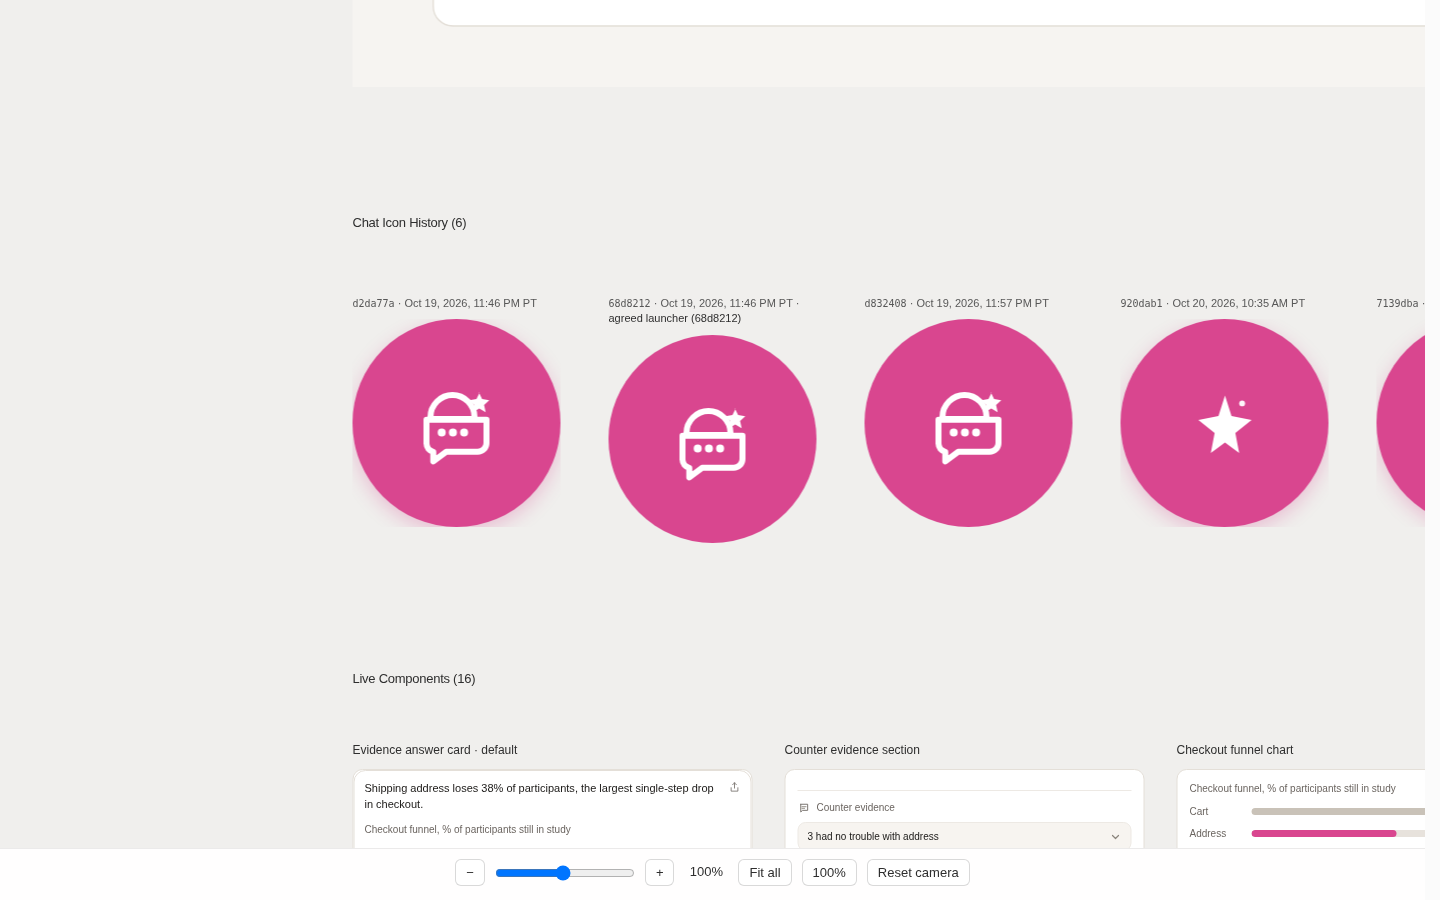
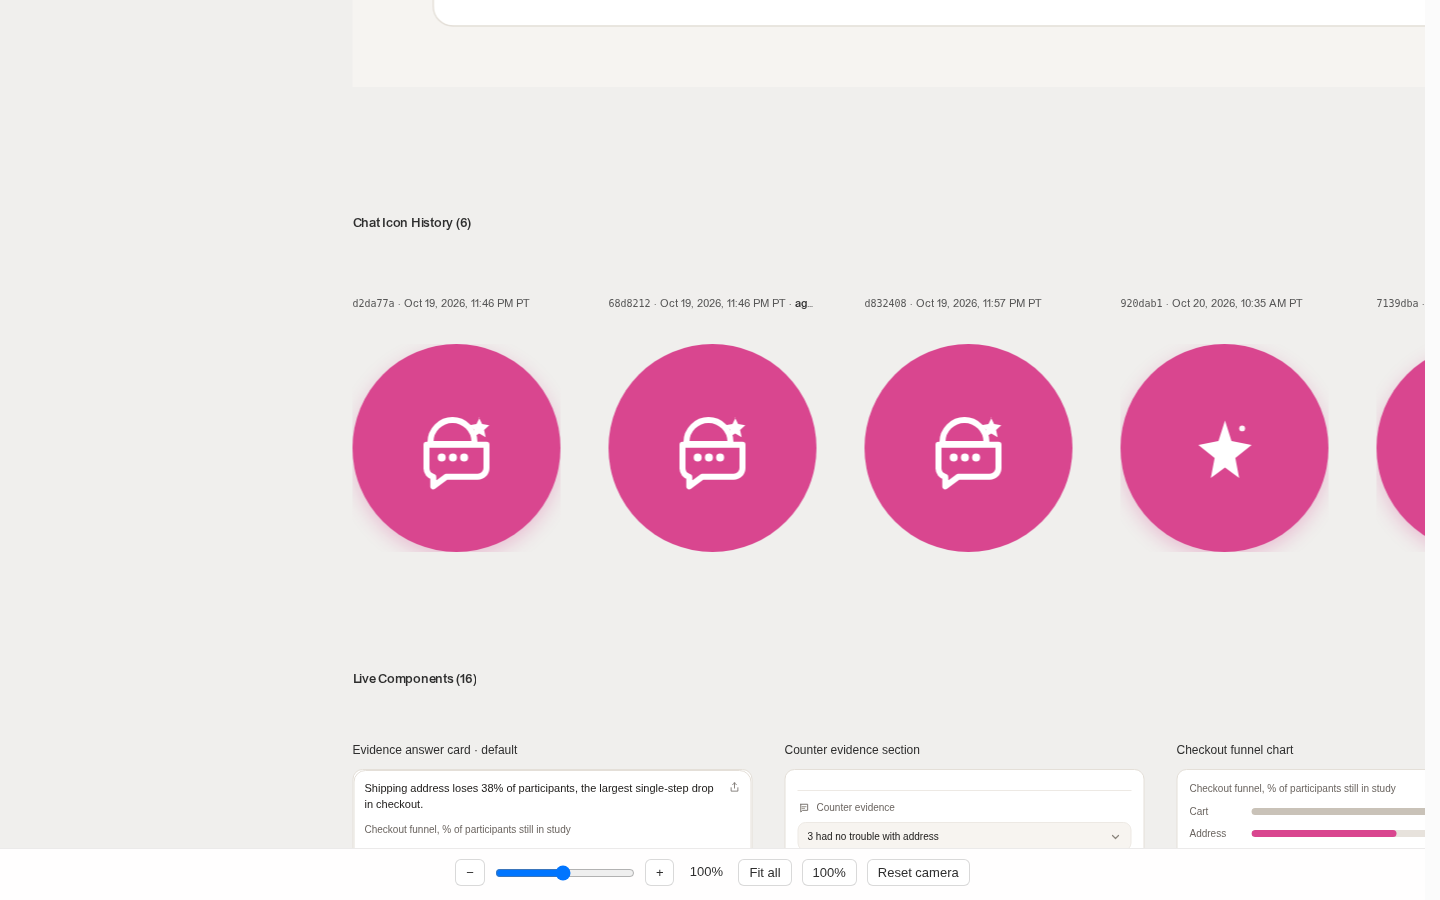
Polish archive fit centering, chat row alignment, and Areal labels
Fit camera uses tight fitBounds from content maxRight so fit-all centers the
board instead of inflated live/label widths. Chat icon captions are single-line
with ellipsis and title tooltips; media tops align. Row labels and captions use
ABC Areal Archive via archive-areal.css.

diff --git a/app/dev/dialogue-archive/DialogueArchiveCanvas.tsx b/app/dev/dialogue-archive/DialogueArchiveCanvas.tsx
@@ -9,9 +9,11 @@ import {
   rowLabelToTileScreenGap,
 } from "@/lib/caseStudies/computeDialogueArchiveLayout";
 import type { DialogueArchiveManifest } from "@/lib/caseStudies/dialogueArchiveTypes";
+import { DIALOGUE_GRAPHICS_FONT } from "@/lib/caseStudies/dialogueGraphicsTheme";
 import { DialogueArchiveLivePreviews } from "./DialogueArchiveLivePreviews";
 
-const { CONTENT_PAD, CAPTION_GAP } = ARCHIVE_LAYOUT;
+const { CONTENT_PAD, CAPTION_GAP, CAPTION_BLOCK_H } = ARCHIVE_LAYOUT;
+const ARCHIVE_AREAL = `"ABC Areal Archive", ${DIALOGUE_GRAPHICS_FONT}`;
 const MIN_ZOOM = 0.02;
 const MAX_ZOOM = 2;
 const STORAGE_KEY = "dialogue-archive-camera-v2";
@@ -33,15 +35,29 @@ function zoomAtPoint(view: View, mx: number, my: number, nextZ: number): View {
   return { z, x: mx - (mx - view.x) * ratio, y: my - (my - view.y) * ratio };
 }
 
-function captionStyleForZoom(z: number): CSSProperties {
+function captionStyleForZoom(z: number, singleLine = false): CSSProperties {
   return {
     margin: 0,
     marginBottom: CAPTION_GAP / z,
-    fontFamily: "var(--font-sans, system-ui)",
+    fontFamily: ARCHIVE_AREAL,
     fontSize: 11,
     lineHeight: 1.4,
     color: "var(--color-text-secondary, #5c5650)",
+    ...(singleLine
+      ? {
+          height: CAPTION_BLOCK_H,
+          overflow: "hidden",
+          textOverflow: "ellipsis",
+          whiteSpace: "nowrap",
+          flexShrink: 0,
+        }
+      : {}),
   };
+}
+
+function chatIconCaptionText(icon: NonNullable<DialogueArchiveManifest["chatIconHistory"]>[0]): string {
+  const agreed = icon.agreed ? " · agreed launcher (68d8212)" : "";
+  return `${icon.shaShort} · ${icon.datePt} PT${agreed}`;
 }
 
 function screenLabelStyle(z: number): CSSProperties {
@@ -49,7 +65,7 @@ function screenLabelStyle(z: number): CSSProperties {
   const hidden = rowLabelToTileScreenGap(z) < 8;
   return {
     margin: 0,
-    fontFamily: "var(--font-sans-medium, system-ui)",
+    fontFamily: ARCHIVE_AREAL,
     fontSize: hidden ? 0 : fontSize,
     fontWeight: 500,
     letterSpacing: "-0.02em",
@@ -110,7 +126,7 @@ export default function DialogueArchiveCanvas({ manifest, initialView }: Props) 
         const next = computeFitCamera({
           viewportW: rect.width,
           viewportH: rect.height,
-          bounds: layout.bounds,
+          bounds: layout.fitBounds,
           pad: CONTENT_PAD,
         });
         setViewSynced(next);
@@ -119,7 +135,7 @@ export default function DialogueArchiveCanvas({ manifest, initialView }: Props) 
       }
       setCameraReady(true);
     },
-    [layout.bounds, setViewSynced],
+    [layout.fitBounds, setViewSynced],
   );
 
   const fitView = useCallback(() => {
@@ -146,14 +162,15 @@ export default function DialogueArchiveCanvas({ manifest, initialView }: Props) 
     const el = viewportRef.current;
     if (!el) return;
     const rect = el.getBoundingClientRect();
-    const bw = layout.bounds.maxX - layout.bounds.minX;
-    const bh = layout.bounds.maxY - layout.bounds.minY;
+    const b = layout.fitBounds;
+    const bw = b.maxX - b.minX;
+    const bh = b.maxY - b.minY;
     setViewSynced({
-      x: (rect.width - bw) / 2 - layout.bounds.minX,
-      y: (rect.height - bh) / 2 - layout.bounds.minY,
+      x: (rect.width - bw) / 2 - b.minX,
+      y: (rect.height - bh) / 2 - b.minY,
       z: 1,
     });
-  }, [layout.bounds, setViewSynced]);
+  }, [layout.fitBounds, setViewSynced]);
 
   useEffect(() => {
     const el = viewportRef.current;
@@ -409,9 +426,16 @@ export default function DialogueArchiveCanvas({ manifest, initialView }: Props) 
                     top: tile.y,
                     width: tile.w,
                     height: tile.h,
+                    display: "flex",
+                    flexDirection: "column",
+                    alignItems: "stretch",
                   }}
                 >
-                  <p data-archive-caption style={captionStyleForZoom(view.z)}>
+                  <p
+                    data-archive-caption
+                    title={chatIconCaptionText(icon)}
+                    style={captionStyleForZoom(view.z, true)}
+                  >
                     <span style={{ fontFamily: "var(--font-mono, ui-monospace)", fontSize: 10 }}>{icon.shaShort}</span>
                     {" · "}
                     {icon.datePt} PT
@@ -424,7 +448,7 @@ export default function DialogueArchiveCanvas({ manifest, initialView }: Props) 
                       </>
                     ) : null}
                   </p>
-                  <div data-archive-tile-media>
+                  <div data-archive-tile-media style={{ flexShrink: 0 }}>
                     {/* eslint-disable-next-line @next/next/no-img-element */}
                     <img
                       src={icon.src}

diff --git a/lib/caseStudies/computeDialogueArchiveLayout.ts b/lib/caseStudies/computeDialogueArchiveLayout.ts
@@ -31,9 +31,13 @@ export type ArchiveLayoutTile = {
   label?: string;
 };
 
+export type ArchiveBounds = { minX: number; minY: number; maxX: number; maxY: number };
+
 export type ArchiveLayout = {
   tiles: ArchiveLayoutTile[];
-  bounds: { minX: number; minY: number; maxX: number; maxY: number };
+  bounds: ArchiveBounds;
+  /** Tight horizontal extent for camera fit (excludes inflated label/live widths). */
+  fitBounds: ArchiveBounds;
   worldW: number;
   worldH: number;
 };
@@ -183,7 +187,8 @@ export function computeDialogueArchiveLayout(manifest: DialogueArchiveManifest):
     y += rowH + ROW_GAP;
   }
 
-  const liveW = Math.max(LIVE_W, maxRight - CONTENT_PAD + CONTENT_PAD);
+  const fitMaxRight = maxRight;
+  const liveW = Math.max(maxRight - CONTENT_PAD, LIVE_W);
   const liveLabelH = ROW_LABEL_H + 16;
   tiles.push({
     id: "label-live",
@@ -219,13 +224,20 @@ export function computeDialogueArchiveLayout(manifest: DialogueArchiveManifest):
     bounds.maxY = worldH;
   }
 
-  return { tiles, bounds, worldW, worldH };
+  const fitBounds: ArchiveBounds = {
+    minX: CONTENT_PAD,
+    minY: bounds.minY,
+    maxX: fitMaxRight + CONTENT_PAD,
+    maxY: bounds.maxY,
+  };
+
+  return { tiles, bounds, fitBounds, worldW, worldH };
 }
 
 export type FitCameraInput = {
   viewportW: number;
   viewportH: number;
-  bounds: ArchiveLayout["bounds"];
+  bounds: ArchiveBounds;
   pad: number;
 };
 

diff --git a/app/dev/dialogue-archive/page.tsx b/app/dev/dialogue-archive/page.tsx
@@ -34,7 +34,7 @@ export default function DialogueArchivePage() {
   const initialView = computeFitCamera({
     viewportW: DEFAULT_VIEWPORT_W,
     viewportH: DEFAULT_VIEWPORT_H - ARCHIVE_TOOLBAR_H,
-    bounds: layout.bounds,
+    bounds: layout.fitBounds,
     pad: ARCHIVE_LAYOUT.CONTENT_PAD,
   });
 
